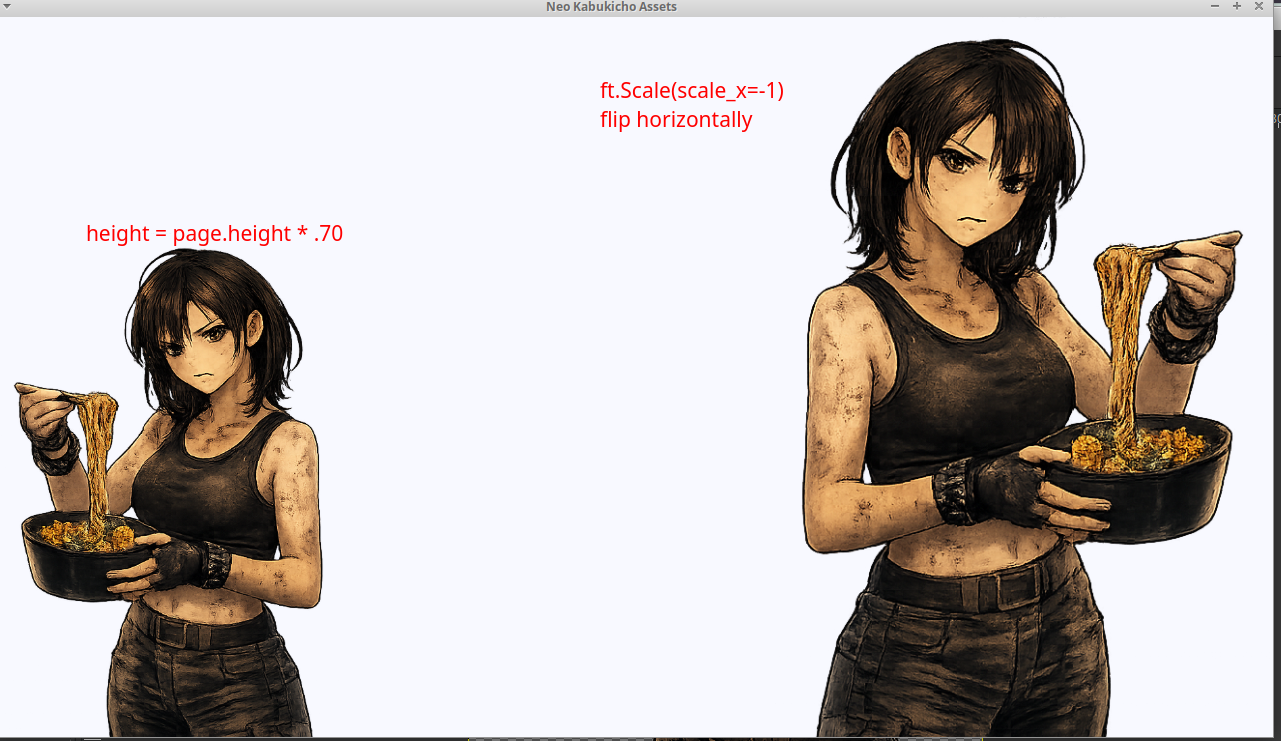
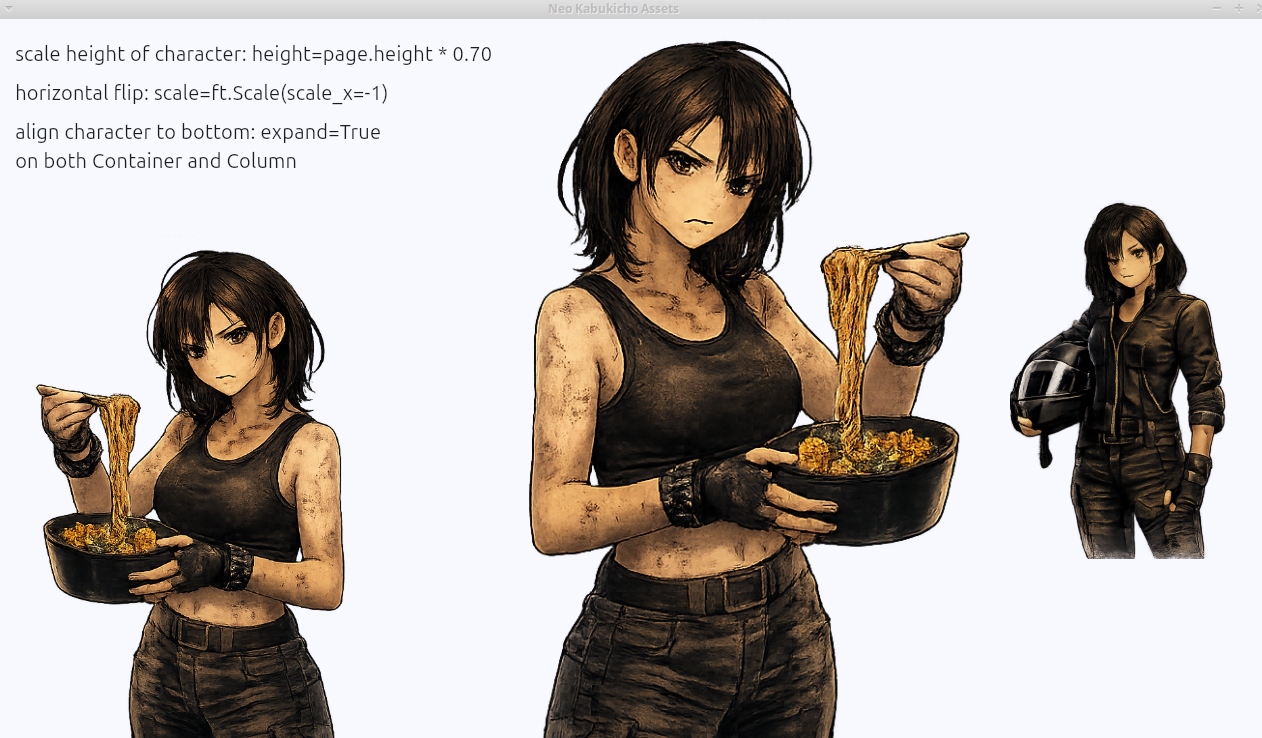
updated aki alignment

diff --git a/flip_scale.py b/flip_scale.py
@@ -8,17 +8,52 @@ def main(page: ft.Page):
         ft.Row(
             controls=[
                 ft.Container(
-                    content=ft.Image(
-                        src="actors/aki/aki-eating.png",
-                        height=page.height * 0.70,
+                    padding=ft.Padding(left=20, top=20),
+                    content=ft.Column(
+                        spacing=10,
+                        controls=[
+                            ft.Text(
+                                "scale height of character: height=page.height * 0.70",
+                                size=20,
+                            ),
+                            ft.Text(
+                                "horizontal flip: scale=ft.Scale(scale_x=-1)",
+                                size=20,
+                            ),
+                            ft.Column(
+                                spacing=0,
+                                controls=[
+                                    ft.Text(
+                                        "align character to bottom: expand=True",
+                                        size=20,
+                                    ),
+                                    ft.Text(
+                                        "on both Container and Column",
+                                        size=20,
+                                    ),
+                                ],
+                            ),
+                            ft.Container(
+                                content=ft.Image(
+                                    src="actors/aki/aki-eating.png",
+                                    height=page.height * 0.70,
+                                ),
+                                expand=True,
+                                alignment=ft.Alignment.BOTTOM_LEFT,
+                            ),
+                        ],
                     ),
-                    expand=True,
-                    alignment=ft.Alignment.BOTTOM_LEFT,
                 ),
                 # use scale_x=-1 to flip character horizontally
                 ft.Image(
                     src="actors/aki/aki-eating.png",
                     scale=ft.Scale(scale_x=-1),
+                ),
+                ft.Container(
+                    content=ft.Image(
+                        src="actors/aki/aki-standing.png",
+                        height=page.height * 0.50,
+                    ),
                 ),
             ],
             expand=True,
